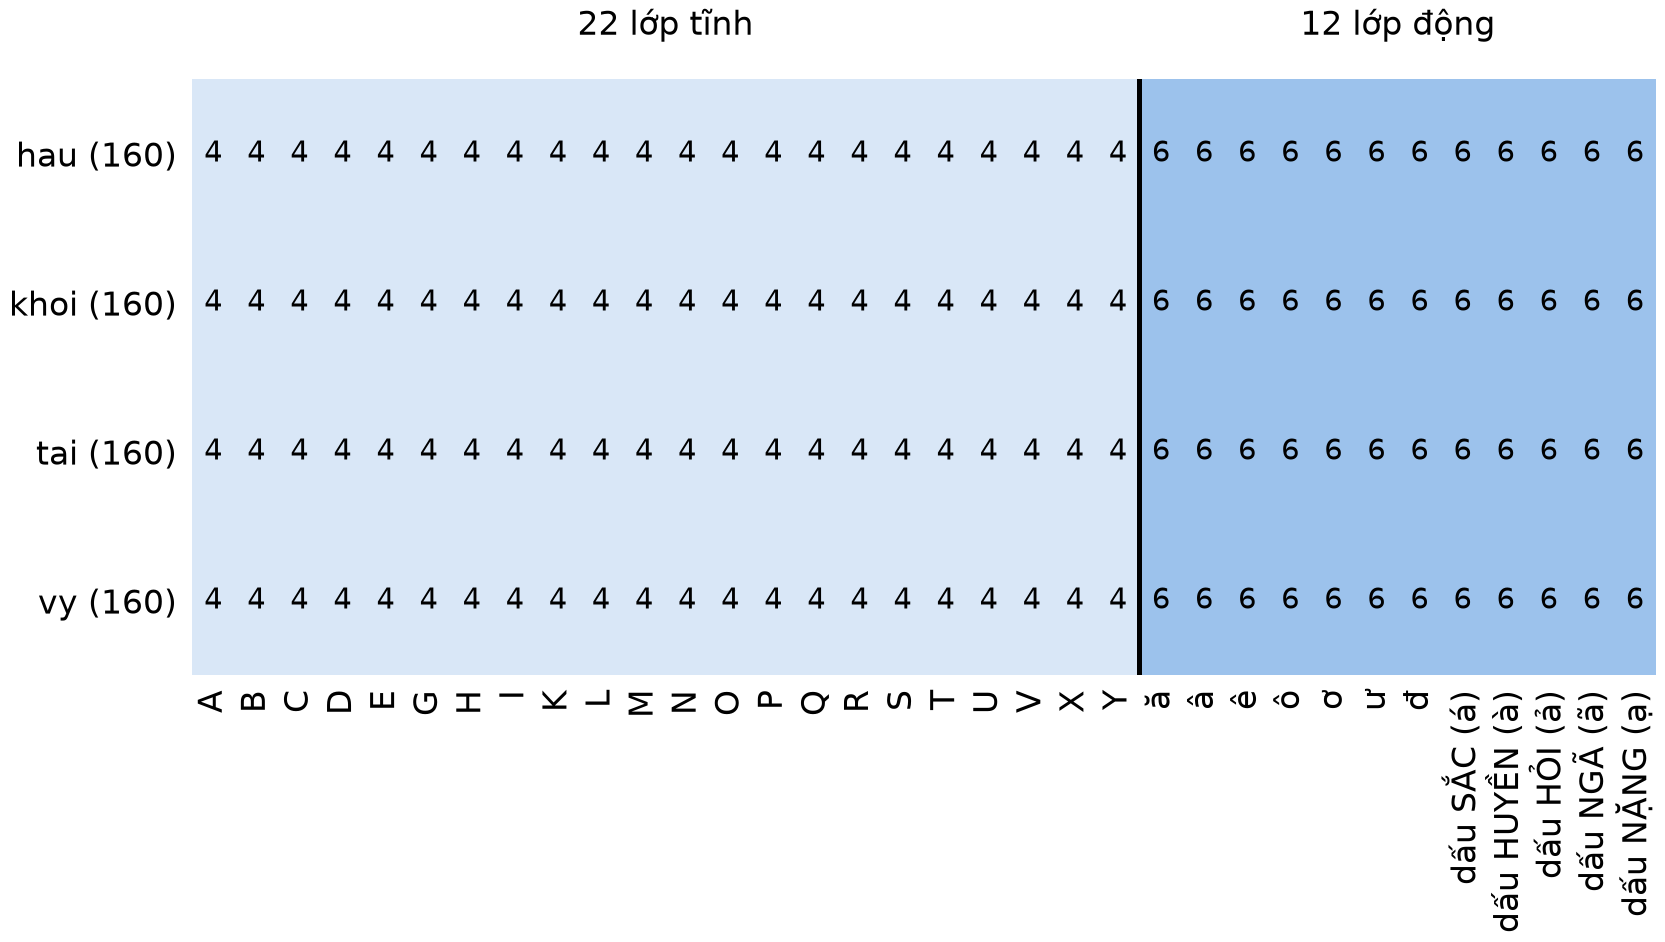
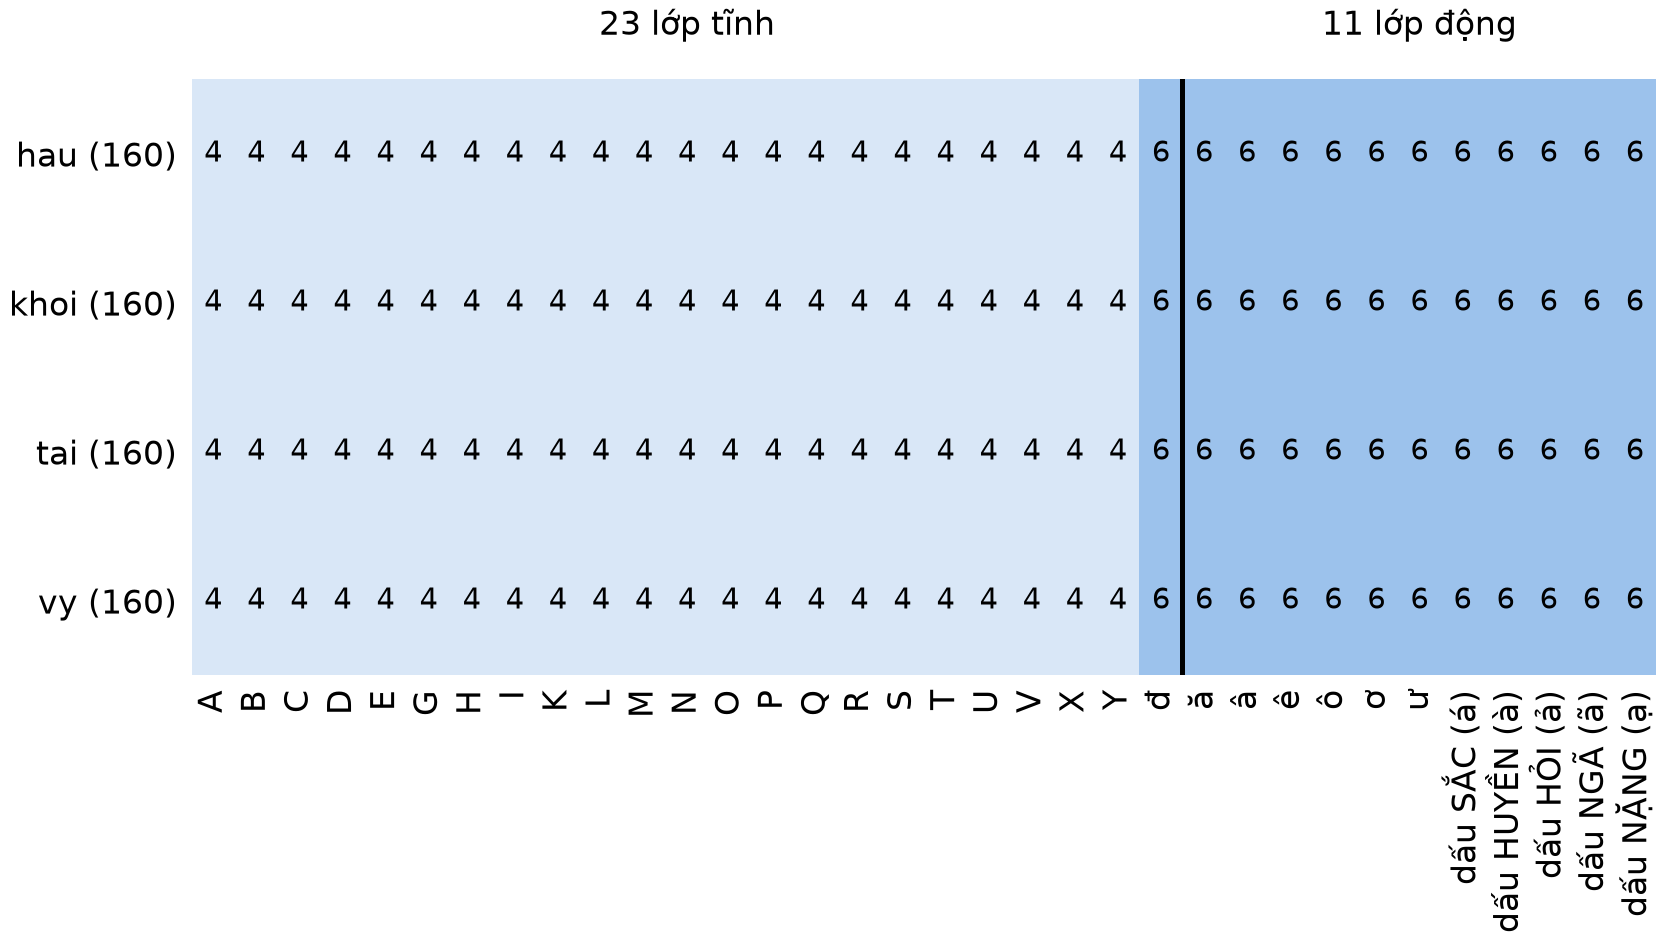
eda

Changed region(s): [[0.7808, 0.0, 0.9057, 0.0616], [0.3435, 0.0, 0.4685, 0.0616], [0.6871, 0.7389, 0.7183, 0.7696]]

diff --git a/tools/eda.py b/tools/eda.py
@@ -30,6 +30,15 @@ from matplotlib.colors import ListedColormap
 sys.path.insert(0, os.path.join(os.path.dirname(__file__), "..", "src"))
 from classes import ALL_CLASSES, class_group, display_name  # noqa: E402
 
+# Theo Thông tư 17/2020/TT-BGDĐT, chữ đ là ký hiệu TĨNH. Khi quay, nhóm xếp đ vào nhóm
+# 6 mẫu/người cùng các chữ có dấu phụ; ở đây chỉ đổi nhóm để phân tích, dữ liệu giữ nguyên.
+TINH_THEO_CHUAN = {"dd"}
+
+
+def nhom(code):
+    """Nhóm tĩnh/động theo chuẩn ngôn ngữ (dùng cho EDA), khác với quy cách số mẫu khi quay."""
+    return "tinh" if code in TINH_THEO_CHUAN else class_group(code)
+
 LANDMARK_DIR = Path("../landmarks/raw")
 OUT_DIR = Path("outputs/eda")
 FNAME_RE = re.compile(r"^([a-z_]+)_([a-z]+)_([AB])_(\d+)\.npy$")
@@ -63,6 +72,7 @@ plt.rcParams.update({
 })
 
 SHOW_TITLES = False
+NANG_LUONG_DD = float("nan")
 
 
 def tieu_de(ax, text):
@@ -132,9 +142,9 @@ def hinh_so_mau(records, persons):
     count = defaultdict(int)
     for r in records:
         count[(r["person"], r["code"])] += 1
-    # Lớp tĩnh trước, lớp động sau, để thấy rõ 4 mẫu và 6 mẫu
-    classes = [c for c in ALL_CLASSES if class_group(c) == "tinh"] + \
-              [c for c in ALL_CLASSES if class_group(c) == "dong"]
+    # Lớp tĩnh trước, lớp động sau. Lớp đ thuộc nhóm tĩnh nhưng được quay 6 mẫu/người.
+    classes = [c for c in ALL_CLASSES if nhom(c) == "tinh"] + \
+              [c for c in ALL_CLASSES if nhom(c) == "dong"]
     M = np.array([[count[(p, c)] for c in classes] for p in persons])
 
     fig, ax = plt.subplots(figsize=(W_FULL, 0.42 * len(persons) + 0.9))
@@ -147,7 +157,7 @@ def hinh_so_mau(records, persons):
         for j in range(M.shape[1]):
             ax.text(j, i, str(M[i, j]), ha="center", va="center", fontsize=7,
                     color="white" if idx[i, j] >= 2 else "black")
-    n_tinh = sum(class_group(c) == "tinh" for c in classes)
+    n_tinh = sum(nhom(c) == "tinh" for c in classes)
     ax.axvline(n_tinh - 0.5, color="black", linewidth=1.2)
     ax.set_xticks(range(len(classes)))
     ax.set_xticklabels([display_name(c) for c in classes], rotation=90)
@@ -236,14 +246,14 @@ def hinh_theo_nguoi(records, persons):
 # ---------------------------------------------------------------------------
 def hinh_chuyen_dong(records):
     tinh = [r["chuyen_dong"] for r in records
-            if r["hop_le"] and r["chuyen_dong"] is not None and class_group(r["code"]) == "tinh"]
+            if r["hop_le"] and r["chuyen_dong"] is not None and nhom(r["code"]) == "tinh"]
     dong = [r["chuyen_dong"] for r in records
-            if r["hop_le"] and r["chuyen_dong"] is not None and class_group(r["code"]) == "dong"]
+            if r["hop_le"] and r["chuyen_dong"] is not None and nhom(r["code"]) == "dong"]
     moc = float(np.mean(tinh))
 
     per_class = defaultdict(list)
     for r in records:
-        if r["hop_le"] and r["chuyen_dong"] is not None and class_group(r["code"]) == "dong":
+        if r["hop_le"] and r["chuyen_dong"] is not None and nhom(r["code"]) == "dong":
             per_class[r["code"]].append(r["chuyen_dong"])
     means = sorted(((display_name(c), float(np.mean(v))) for c, v in per_class.items()), key=lambda x: x[1])
 
@@ -269,6 +279,9 @@ def hinh_chuyen_dong(records):
     ax.set_xlim(0, max(values + [moc]) * 1.08)
     tieu_de(ax, "Từng lớp động")
     fig.tight_layout()
+    vals_dd = [r["chuyen_dong"] for r in records if r["hop_le"] and r["chuyen_dong"] is not None and r["code"] == "dd"]
+    global NANG_LUONG_DD
+    NANG_LUONG_DD = float(np.mean(vals_dd)) if vals_dd else float("nan")
     tren_moc = sum(v > moc for v in values)
     duoi_moc = [l for l, v in means if v <= moc]
     return luu(fig, "04_nang_luong_chuyen_dong.png"), (float(np.median(tinh)), float(np.median(dong)),
@@ -314,6 +327,7 @@ def main():
         "Tỉ lệ khung tay sát/ra ngoài mép theo người (%): " + ", ".join(f"{p}={mep[p]:.1f}" for p in persons),
         f"Trung vị năng lượng chuyển động: tĩnh={med_t:.4f}, động={med_d:.4f}; mốc trung bình tĩnh={moc:.4f}",
         f"Lớp động có năng lượng TB cao hơn mốc tĩnh: {tren}/{n_dong}; thấp hơn: {', '.join(duoi) or 'không có'}",
+        f"Lớp đ (xếp vào nhóm tĩnh theo TT 17/2020): năng lượng TB={NANG_LUONG_DD:.4f} so với mốc tĩnh {moc:.4f}",
     ]
     (OUT_DIR / "eda_summary.txt").write_text("\n".join(lines) + "\n", encoding="utf-8")
     print("\n".join(lines))
